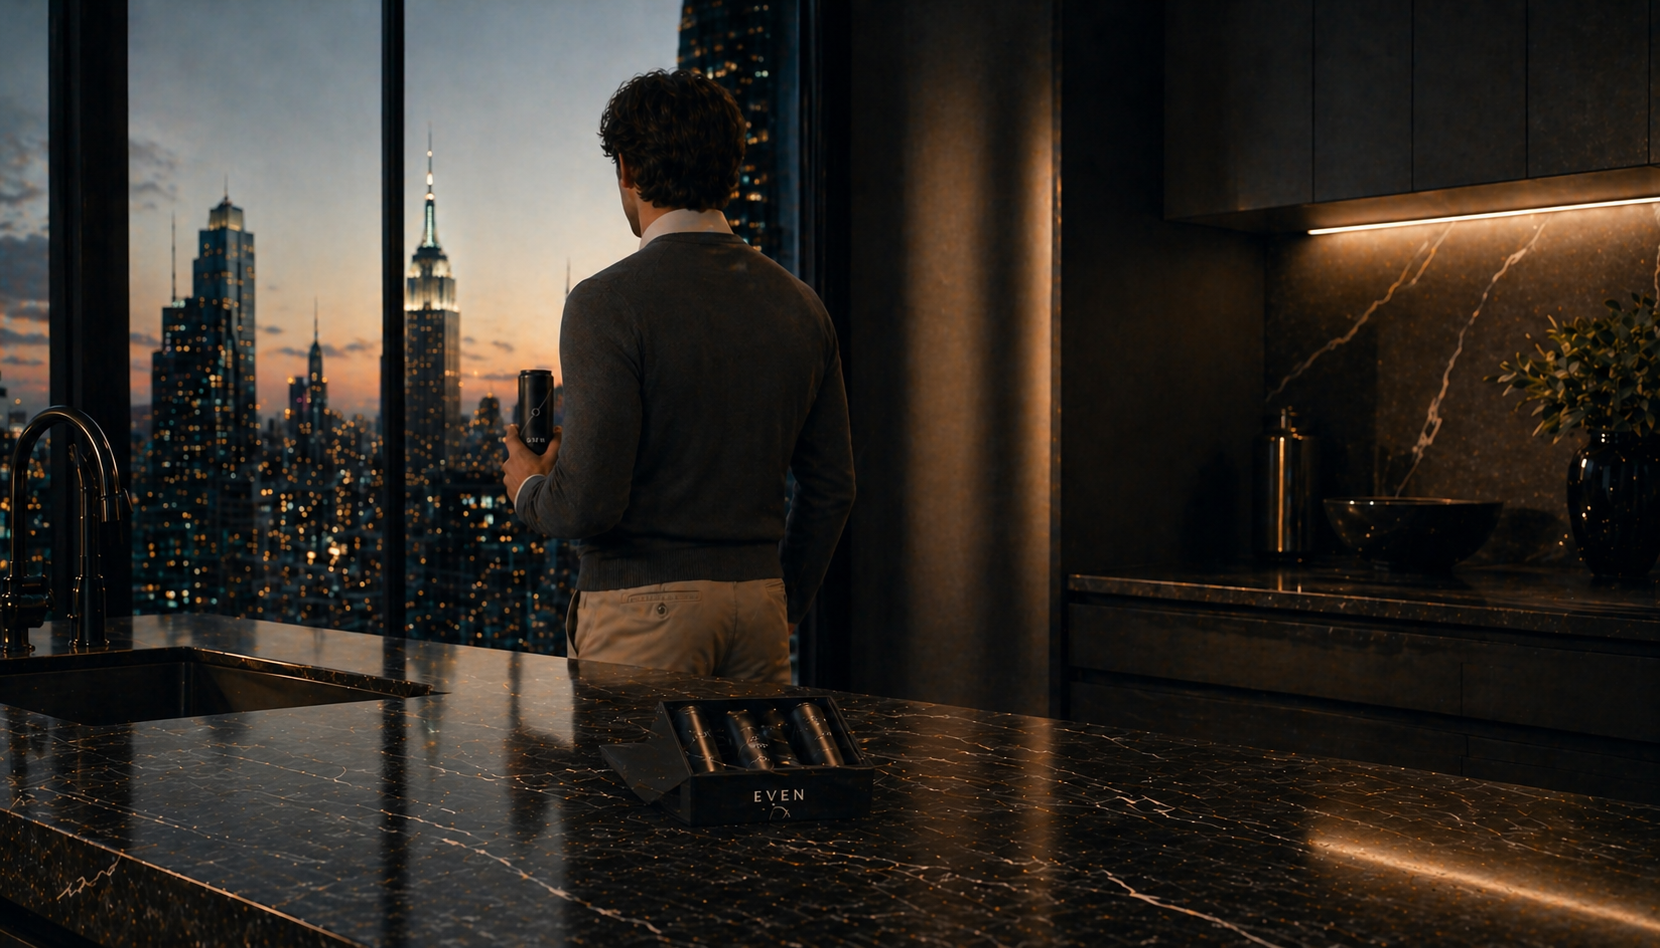
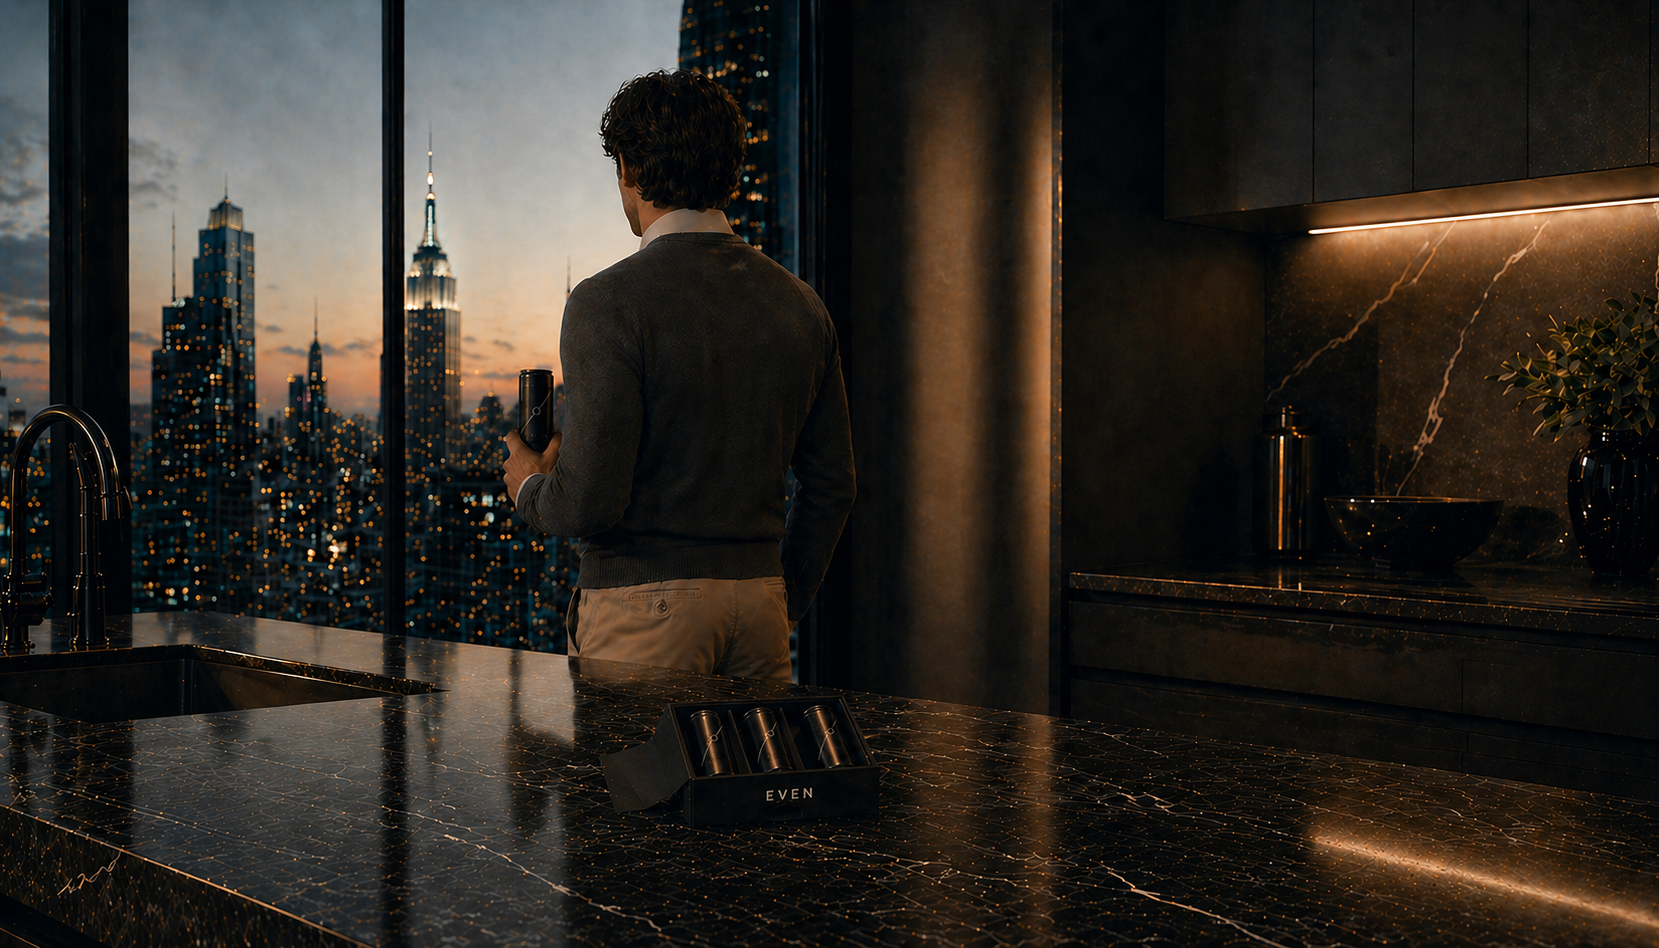
updated

diff --git a/index.html b/index.html
@@ -42,12 +42,6 @@
       position: absolute;
       inset: 0;
       background-image:
-        linear-gradient(
-          180deg,
-          rgba(0,0,0,0.1) 0%,
-          rgba(0,0,0,0.18) 50%,
-          rgba(0,0,0,0.82) 100%
-        ),
         url("assets/apartment_nyc_hero.png");
       background-size: cover;
       background-position: center;
@@ -212,6 +206,11 @@
         width: 50%;
         max-width: 180px;
       }
+
+      .hero::before {
+  background-size: 140%;
+  background-position: center 30%;
+}
 
       .row {
         transform: translateY(28px);
